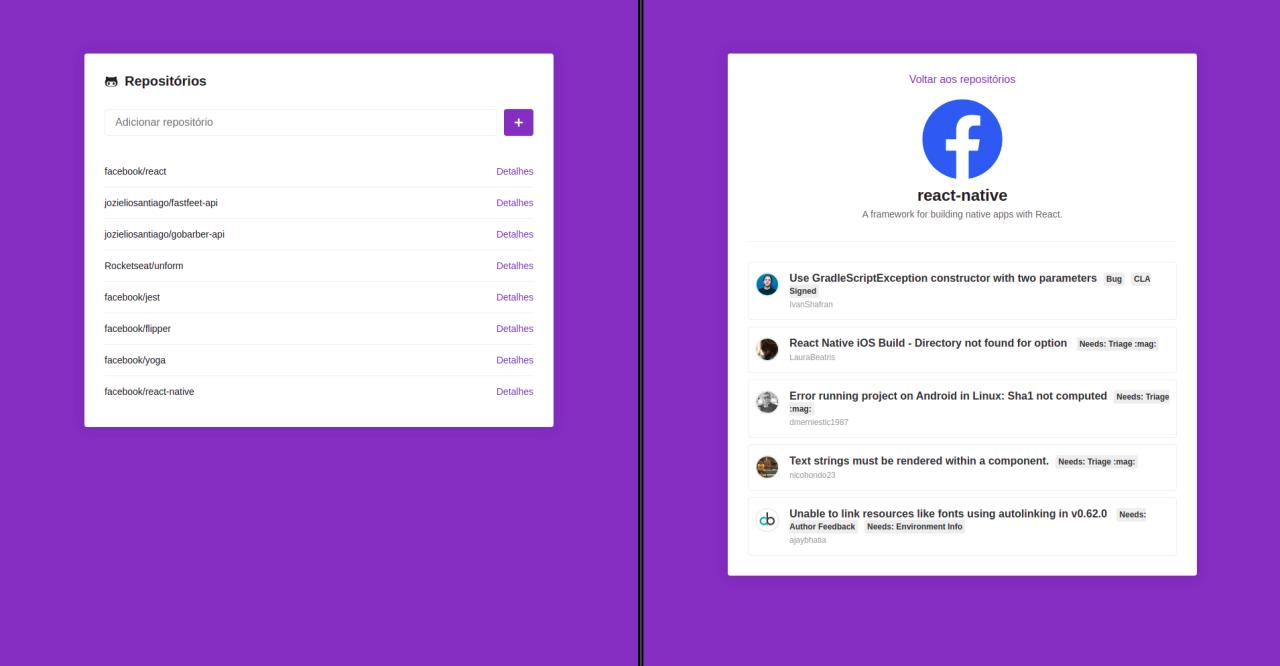
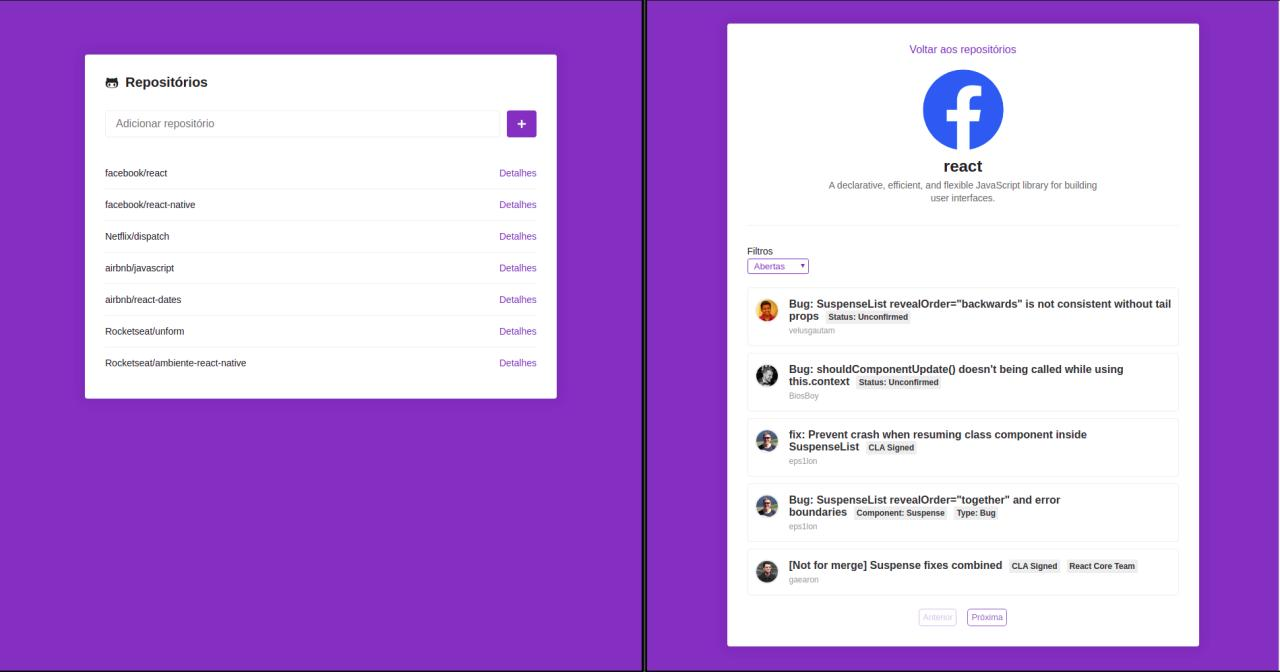
filtering and paging feature included

diff --git a/src/pages/Repository/index.js b/src/pages/Repository/index.js
@@ -1,10 +1,19 @@
 import React, { Component } from 'react';
+import { FaSpinner } from 'react-icons/fa';
+
 import { Link } from 'react-router-dom';
 import PropTypes from 'prop-types';
 import api from '../../services/api';
 
 import Container from '../../components/Container';
-import { Loading, Owner, IssueList } from './styles';
+import {
+  Loading,
+  Owner,
+  IssueList,
+  Loader,
+  Filter,
+  Pagination,
+} from './styles';
 
 class Repository extends Component {
   static propTypes = {
@@ -16,13 +25,18 @@ class Repository extends Component {
   };
 
   state = {
+    repoName: '',
     repository: {},
     issues: [],
     loading: true,
+    loadingIssues: true,
+    filter: 'open',
+    page: 1,
   };
 
   async componentDidMount() {
     const { match } = this.props;
+    const { filter, page } = this.state;
 
     const repoName = decodeURIComponent(match.params.repository);
 
@@ -30,21 +44,64 @@ class Repository extends Component {
       api.get(`/repos/${repoName}`),
       api.get(`/repos/${repoName}/issues`, {
         params: {
-          state: 'open',
+          state: filter,
           per_page: 5,
+          page,
         },
       }),
     ]);
 
     this.setState({
       loading: false,
+      loadingIssues: false,
       repository: repository.data,
       issues: issues.data,
+      repoName,
     });
   }
 
+  fetchIssues = async (page) => {
+    this.setState({ loadingIssues: true });
+    const { filter, repoName } = this.state;
+
+    const issues = await api.get(`/repos/${repoName}/issues`, {
+      params: {
+        state: filter,
+        per_page: 5,
+        page,
+      },
+    });
+
+    this.setState({
+      loadingIssues: false,
+      issues: issues.data,
+      page,
+    });
+  };
+
+  handleSelect = (e) => {
+    this.setState({
+      filter: e.target.value,
+    });
+    this.fetchIssues(1);
+  };
+
+  handleNextPage = () => {
+    const { page } = this.state;
+
+    this.fetchIssues(page + 1);
+  };
+
+  handlePrevPage = () => {
+    const { page } = this.state;
+
+    if (page > 1) {
+      this.fetchIssues(page - 1);
+    }
+  };
+
   render() {
-    const { repository, issues, loading } = this.state;
+    const { repository, issues, loading, loadingIssues, page } = this.state;
 
     if (loading) {
       return <Loading>Carregando</Loading>;
@@ -59,22 +116,59 @@ class Repository extends Component {
           <p>{repository.description}</p>
         </Owner>
 
-        <IssueList>
-          {issues.map((issue) => (
-            <li key={String(issue.id)}>
-              <img src={issue.user.avatar_url} alt={issue.user.login} />
-              <div>
-                <strong>
-                  <a href={issue.html_url}>{issue.title}</a>
-                  {issue.labels.map((label) => (
-                    <span key={String(label.id)}>{label.name}</span>
-                  ))}
-                </strong>
-                <p>{issue.user.login}</p>
-              </div>
-            </li>
-          ))}
-        </IssueList>
+        <Filter>
+          <label htmlFor="option">Filtros</label>
+          <select
+            id="option"
+            onChange={this.handleSelect}
+            disabled={loadingIssues}
+          >
+            <option value="open">Abertas</option>
+            <option value="closed">Fechadas</option>
+            <option value="all">Todas</option>
+          </select>
+        </Filter>
+
+        {loadingIssues ? (
+          <Loader loadingIssues>
+            <FaSpinner size={30} color="#7159c1" />
+          </Loader>
+        ) : (
+          <>
+            <IssueList>
+              {issues.map((issue) => (
+                <li key={String(issue.id)}>
+                  <img src={issue.user.avatar_url} alt={issue.user.login} />
+                  <div>
+                    <strong>
+                      <a href={issue.html_url}>{issue.title}</a>
+                      {issue.labels.map((label) => (
+                        <span key={String(label.id)}>{label.name}</span>
+                      ))}
+                    </strong>
+                    <p>{issue.user.login}</p>
+                  </div>
+                </li>
+              ))}
+            </IssueList>
+          </>
+        )}
+        <Pagination>
+          <button
+            type="button"
+            onClick={() => this.handlePrevPage()}
+            disabled={page === 1 || loadingIssues}
+          >
+            Anterior
+          </button>
+          <button
+            type="button"
+            onClick={() => this.handleNextPage()}
+            disabled={loadingIssues}
+          >
+            Próxima
+          </button>
+        </Pagination>
       </Container>
     );
   }

diff --git a/src/pages/Repository/styles.js b/src/pages/Repository/styles.js
@@ -1,4 +1,4 @@
-import styled from 'styled-components';
+import styled, { keyframes, css } from 'styled-components';
 
 export const Loading = styled.div`
   color: #fff;
@@ -43,9 +43,6 @@ export const Owner = styled.header`
 `;
 
 export const IssueList = styled.ul`
-  padding-top: 30px;
-  margin-top: 30px;
-  border-top: solid 1px #eee;
   list-style: none;
 
   li {
@@ -97,6 +94,81 @@ export const IssueList = styled.ul`
         font-size: 12px;
         color: #999;
       }
+    }
+  }
+`;
+
+const rotate = keyframes`
+  from {
+    transform: rotate(0deg)
+  } to {
+    transform: rotate(360deg)
+  }
+`;
+
+export const Loader = styled.div`
+  width: 100%;
+  height: 20vh;
+  display: flex;
+  justify-content: center;
+  align-items: center;
+
+  ${(props) =>
+    props.loadingIssues &&
+    css`
+      svg {
+        animation: ${rotate} 1s linear infinite;
+      }
+    `};
+`;
+
+export const Filter = styled.div`
+  margin-bottom: 20px;
+  margin-top: 30px;
+  padding-top: 30px;
+  display: flex;
+  align-items: flex-start;
+  flex-direction: column;
+  border-top: solid 1px #eee;
+
+  label {
+    margin-bottom: 3px;
+  }
+
+  select {
+    background: none;
+    color: #7159c1;
+    border: solid 1px #7159c1;
+    padding: 2px 5px;
+    border-radius: 3px;
+
+    &[disabled] {
+      cursor: not-allowed;
+      opacity: 0.6;
+    }
+  }
+`;
+
+export const Pagination = styled.div`
+  width: 100%;
+  display: flex;
+  padding-top: 20px;
+  justify-content: center;
+  align-items: center;
+
+  button {
+    border: solid 1px #7159c1d6;
+    color: #7159c1d6;
+    padding: 5px;
+    background: #fff;
+    margin: 0 8px;
+    border-radius: 5px;
+    font-size: 0.9em;
+
+    &[disabled] {
+      cursor: not-allowed;
+      color: #7159c159;
+      border: solid 1px #7159c159;
     }
   }
 `;

diff --git a/src/pages/Main/index.js b/src/pages/Main/index.js
@@ -12,6 +12,7 @@ class Main extends Component {
     newRepo: '',
     repositories: [],
     loading: false,
+    notFound: false,
   };
 
   componentDidMount() {
@@ -39,21 +40,34 @@ class Main extends Component {
 
     const { newRepo, repositories } = this.state;
 
-    const response = await api.get(`/repos/${newRepo}`);
+    const existRepo = repositories.find(
+      (repository) => repository.name === newRepo
+    );
 
-    const data = {
-      name: response.data.full_name,
-    };
+    try {
+      if (existRepo) {
+        throw new Error('Repositório duplicado');
+      }
+
+      const response = await api.get(`/repos/${newRepo}`);
+      const data = {
+        name: response.data.full_name,
+      };
+      this.setState({
+        repositories: [...repositories, data],
+      });
+    } catch (error) {
+      this.setState({ notFound: true });
+    }
 
     this.setState({
-      repositories: [...repositories, data],
       newRepo: '',
       loading: false,
     });
   };
 
   render() {
-    const { newRepo, loading, repositories } = this.state;
+    const { newRepo, loading, repositories, notFound } = this.state;
     return (
       <Container>
         <h1>
@@ -61,7 +75,7 @@ class Main extends Component {
           Repositórios
         </h1>
 
-        <Form onSubmit={this.handleSubmit}>
+        <Form onSubmit={this.handleSubmit} error={notFound}>
           <input
             type="text"
             placeholder="Adicionar repositório"

diff --git a/.eslintrc.js b/.eslintrc.js
@@ -30,6 +30,16 @@ module.exports = {
       'warn',
       { extensions: ['.jsx', '.js'] }
     ],
+    "jsx-a11y/label-has-associated-control": ["error", {
+      "required": {
+        "some": ["nesting", "id"]
+      }
+    }],
+    "jsx-a11y/label-has-for": ["error", {
+      "required": {
+        "some": ["nesting", "id"]
+      }
+    }],
     'import/prefer-default-export': 'off',
     'react/state-in-constructor': 'off',
     'react/static-property-placement': 'off'

diff --git a/src/pages/Main/styles.js b/src/pages/Main/styles.js
@@ -7,6 +7,7 @@ export const Container = styled.div`
   box-shadow: 0 0 20px rgba(0, 0, 0, 0.1);
   padding: 30px;
   margin: 80px auto;
+  overflow: hidden;
 
   h1 {
     font-size: 20px;
@@ -27,7 +28,7 @@ export const Form = styled.form`
 
   input {
     flex: 1;
-    border: solid 1px #eee;
+    border: solid 1px ${(props) => (props.error ? '#ff0000' : '#eee')};
     padding: 10px 15px;
     border-radius: 4px;
     font-size: 16px;
